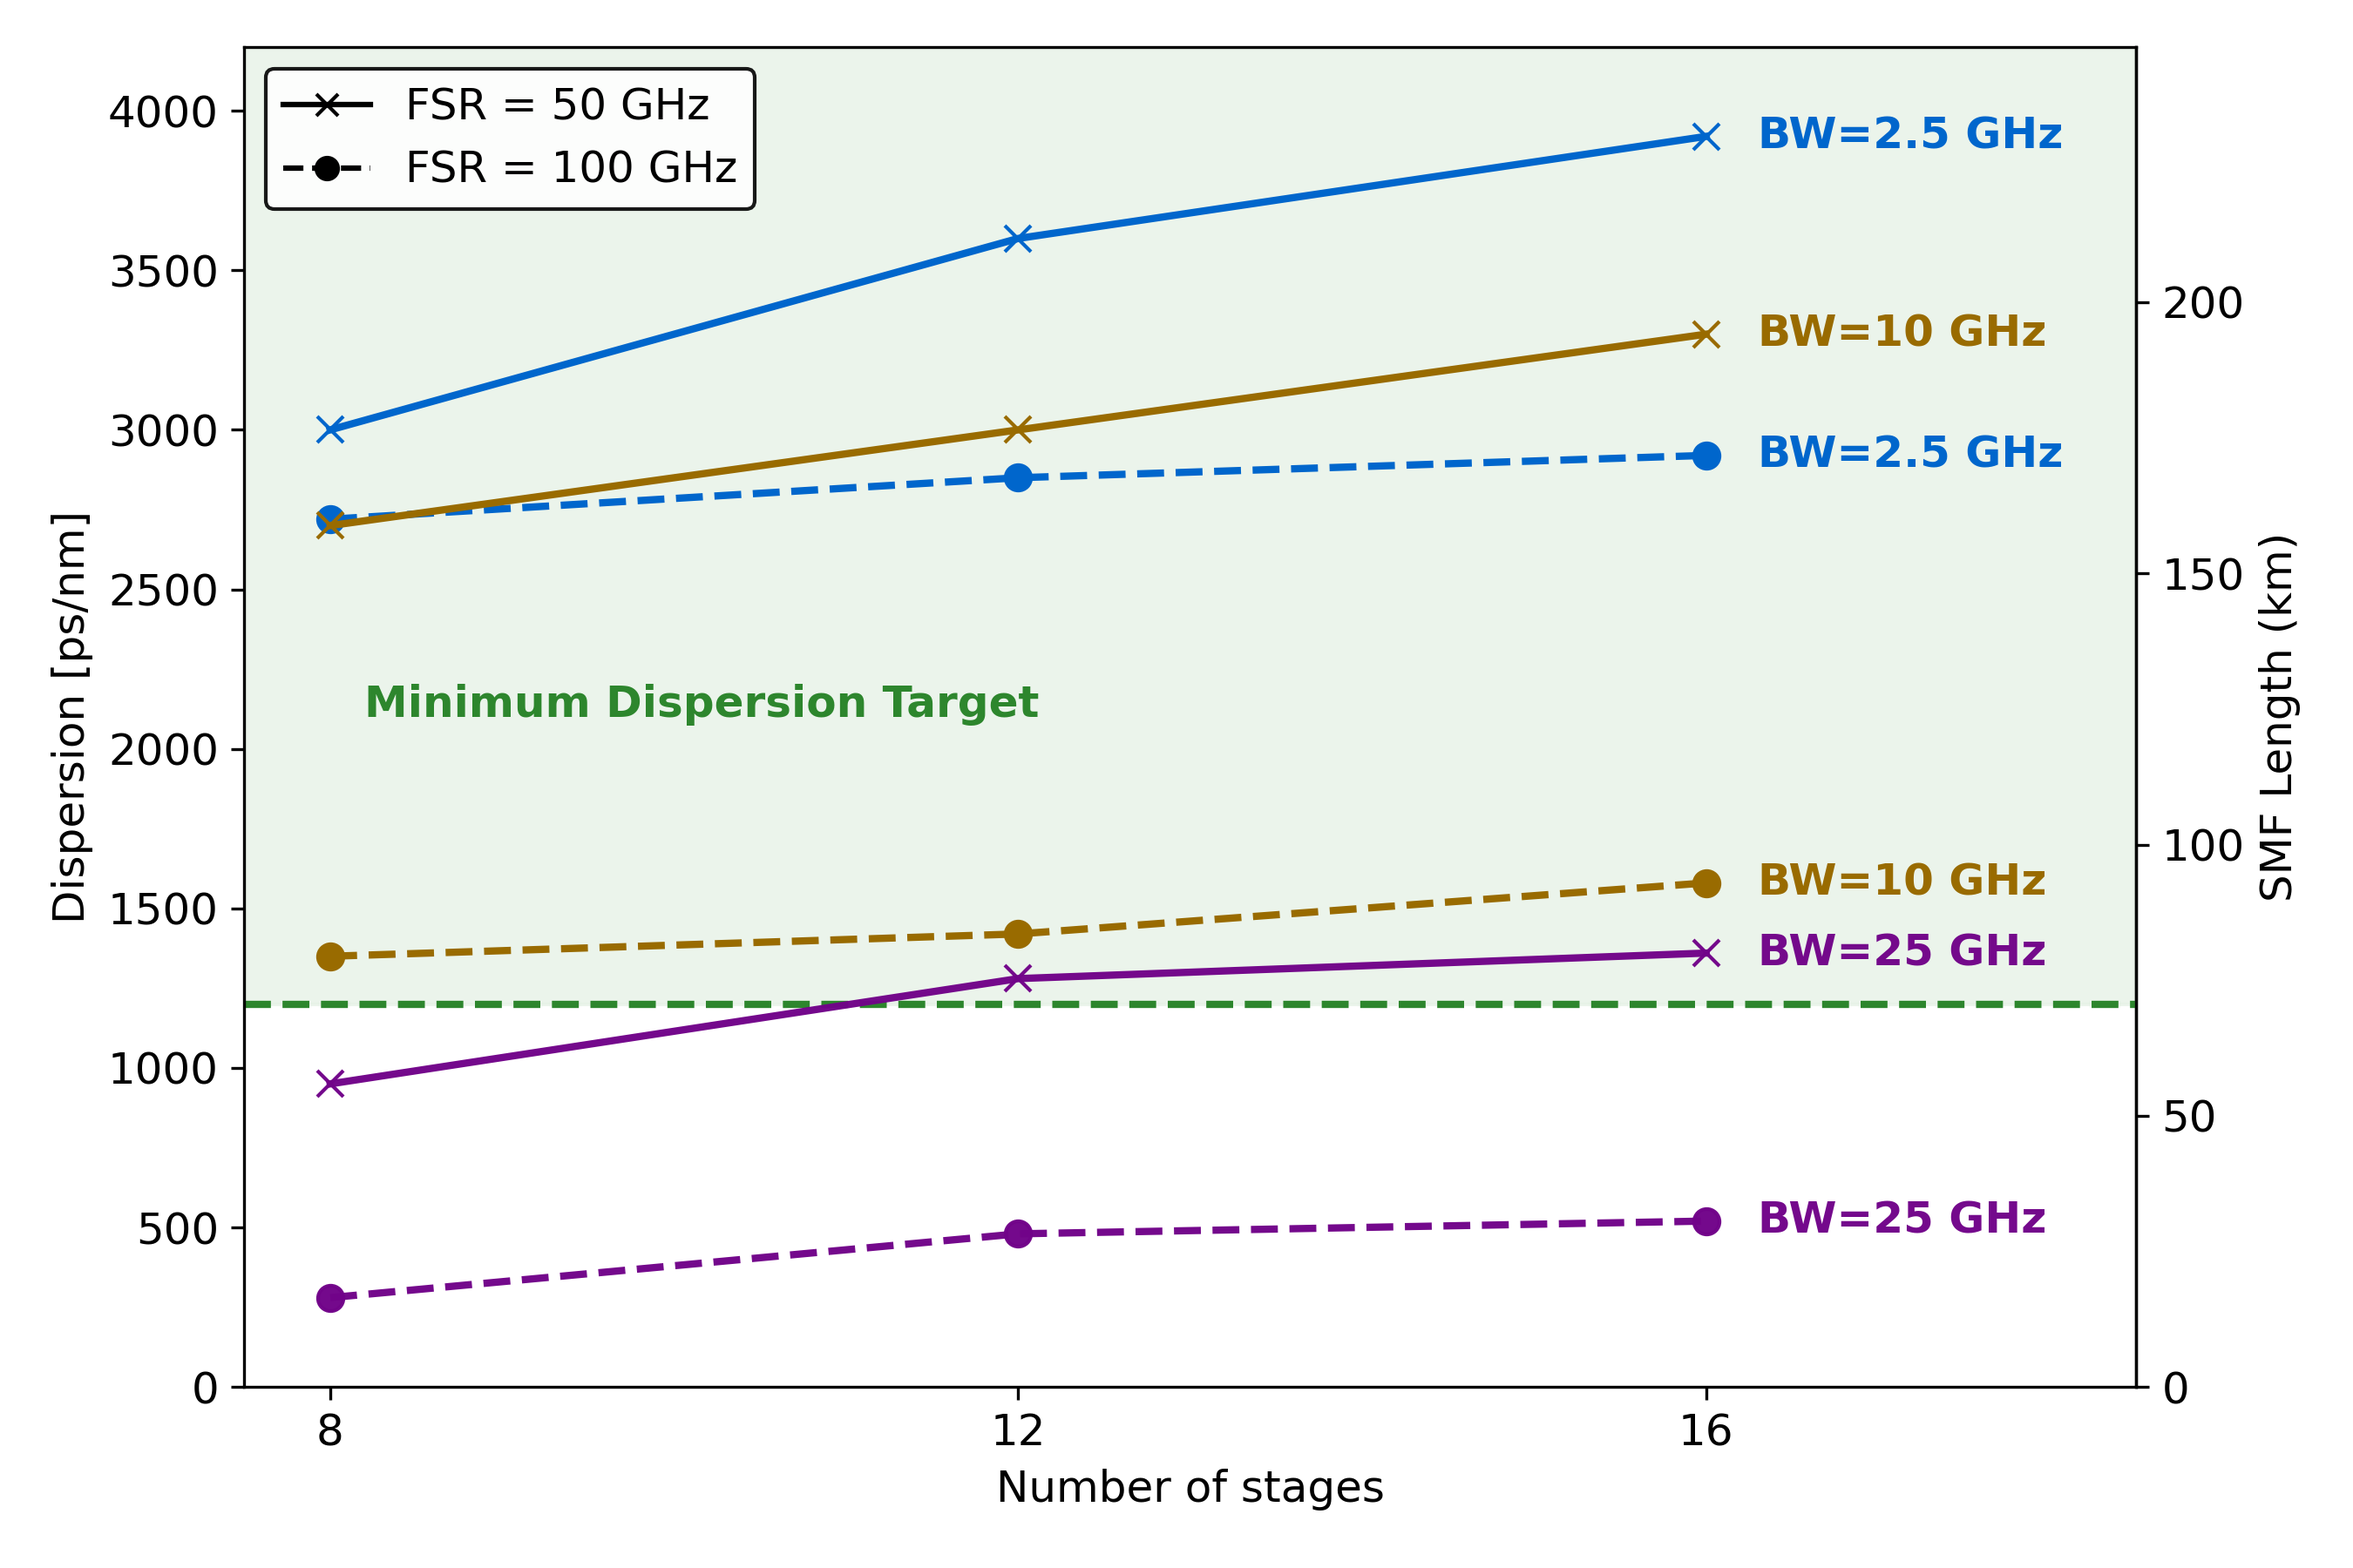
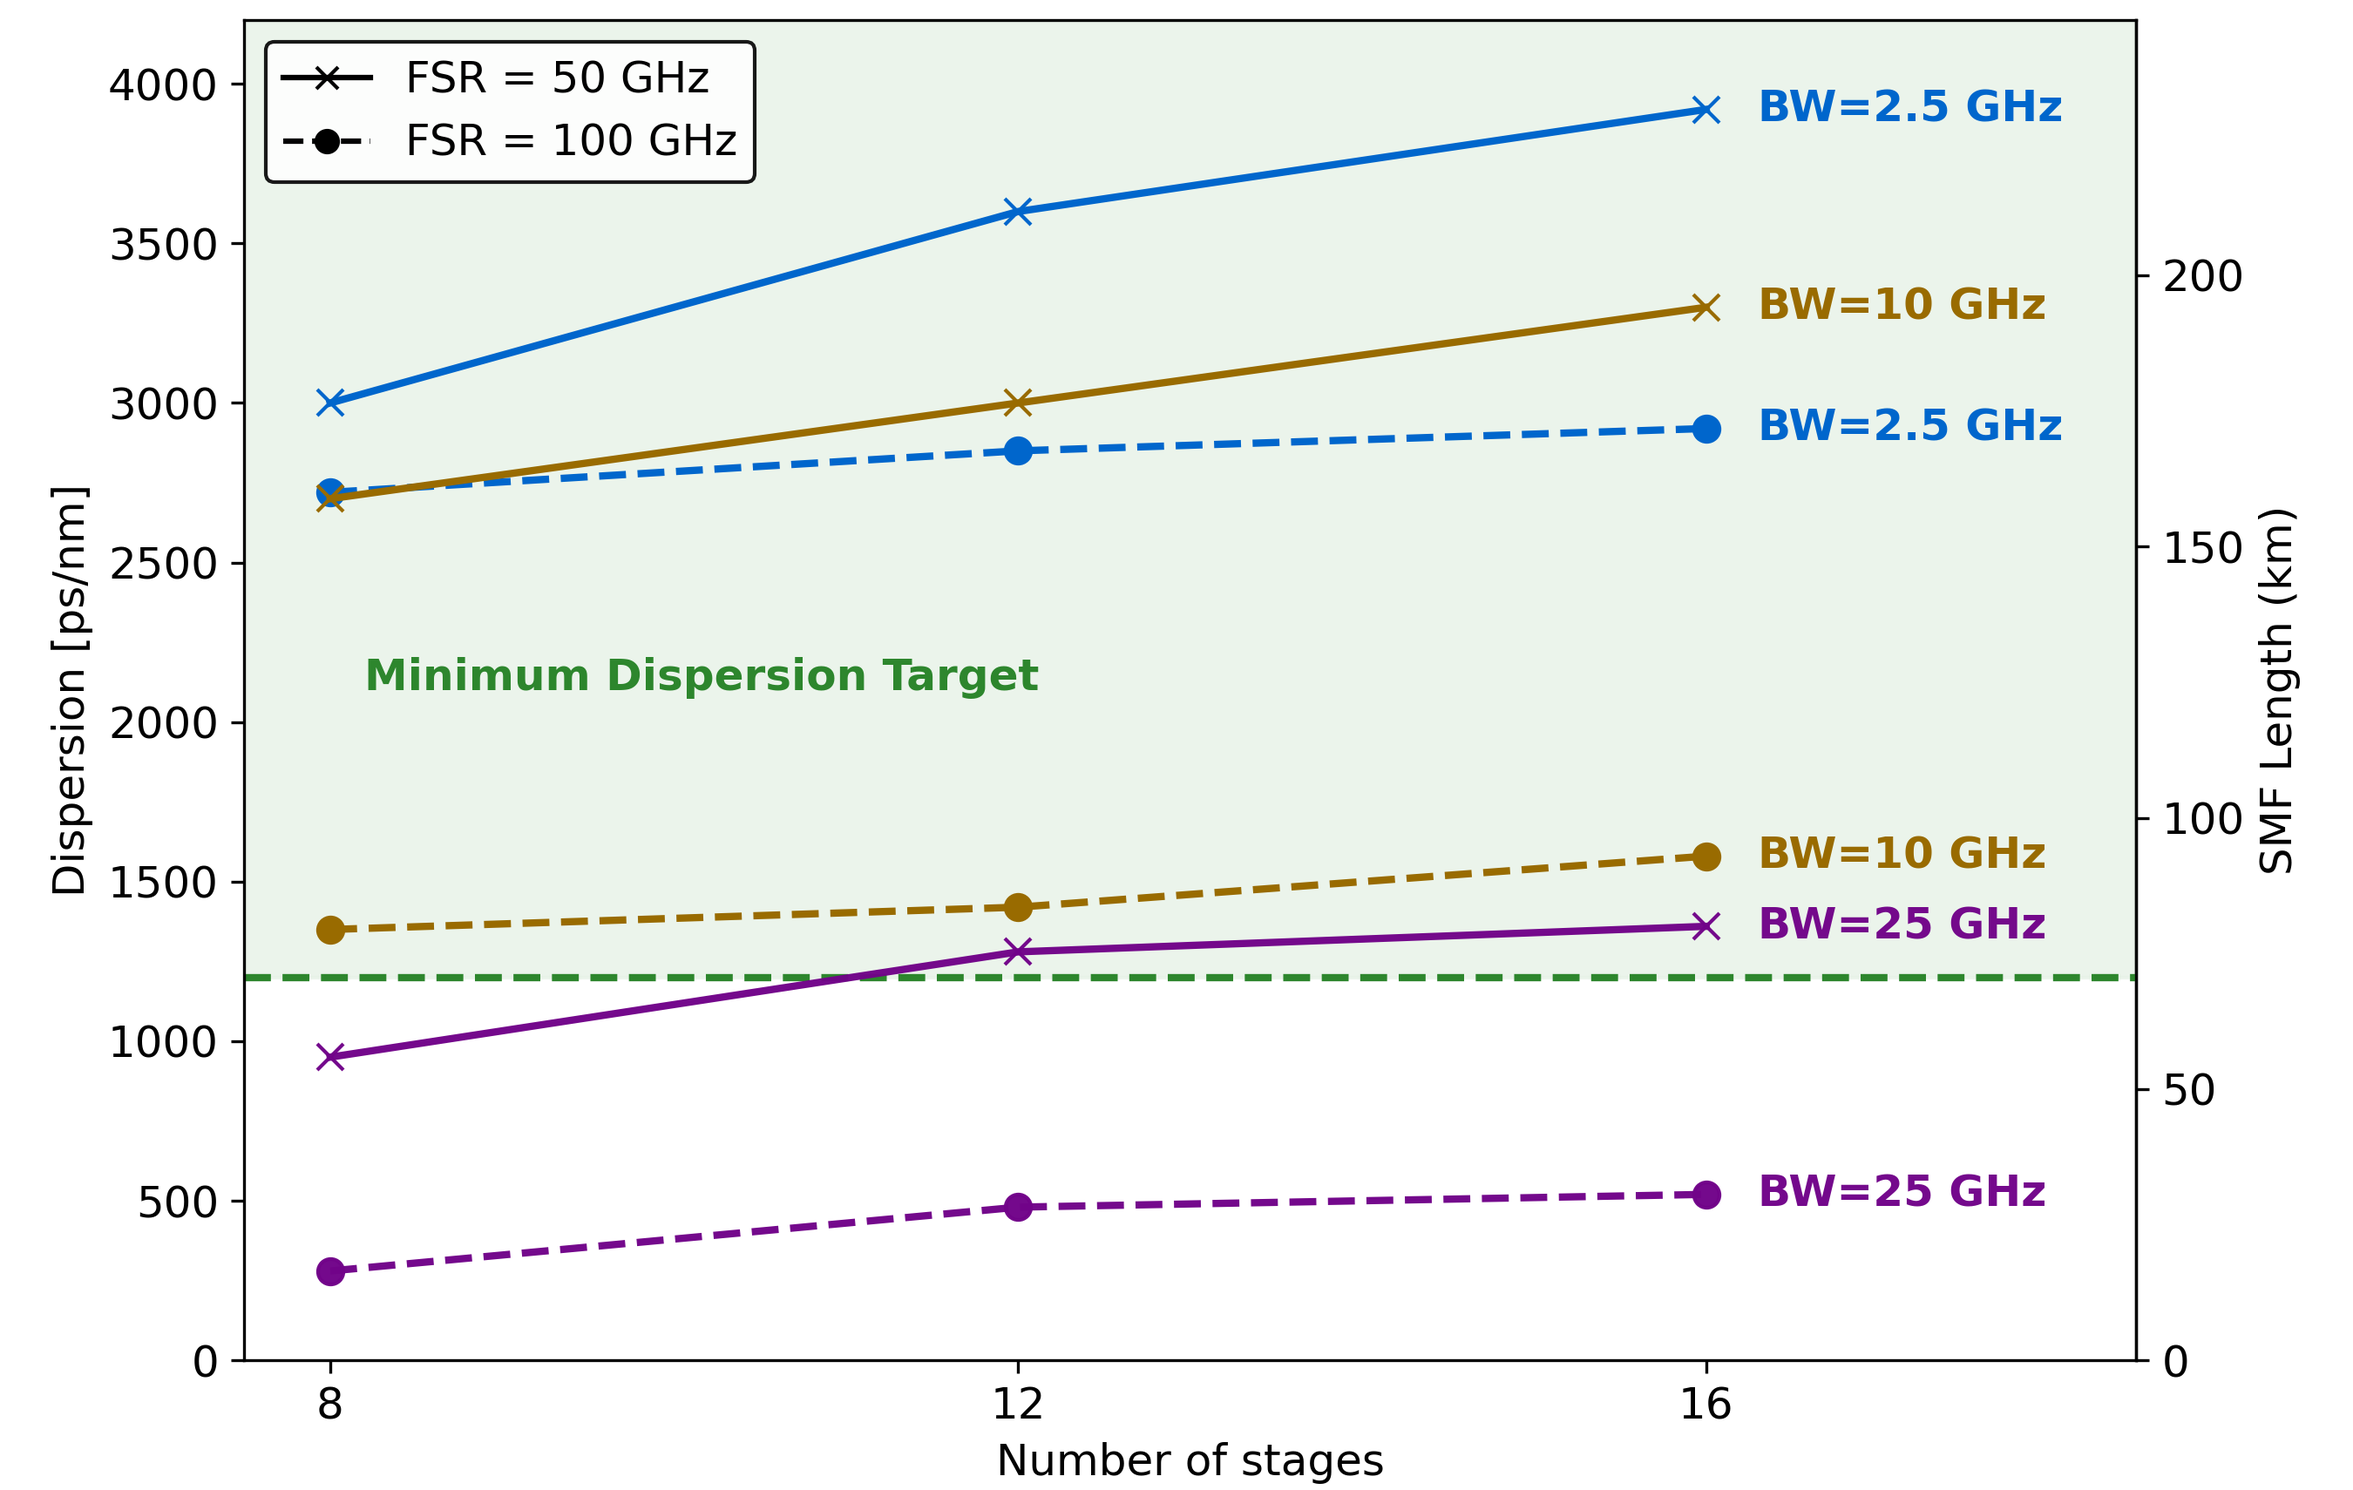
Page layout formatting of chapter 4

diff --git a/ch4-systems.tex b/ch4-systems.tex
@@ -476,7 +476,7 @@ regional mitigation.
 
 \begin{figure}[htbp]
     \centering
-    \includegraphics[width=0.9\textwidth]{figures/ch4-dp_filters_comparison.png}
+    \includegraphics[width=0.88\textwidth]{figures/ch4-dp_filters_comparison.png}
     \caption{Performance trade-offs in MZI lattice filters for dispersion compensation, showing the
     achievable dispersion versus the number of cascaded stages for different usable bandwidths and 
     FSR. The shaded region denotes the target design space for compensating over 70~km of standard 
